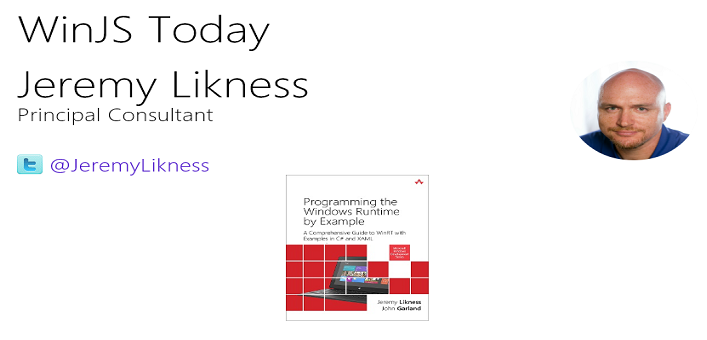
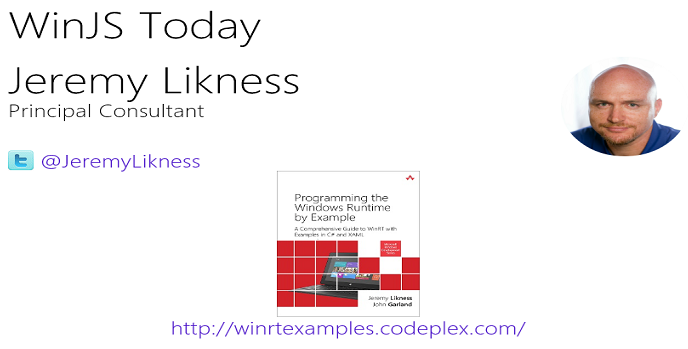
Fix links and refresh thumbnails

diff --git a/RebuildWinJS/slides/slide1.html b/RebuildWinJS/slides/slide1.html
@@ -5,6 +5,6 @@
     <p class="spacer-10"/>
     <div class="animated bounceInRight"><a class="win-type-x-large" href="http://www.twitter.com/jeremylikness" target="_blank"><img src="/images/twitter.png" class="v-middle" alt="Twitter" />&nbsp;<span class="v-middle">@JeremyLikness</span></a></div>
     <img id="bookImg" src="/images/9780321927972-qtrsize.jpg" class="hidden"/>
-    <div id="bookLink" class="stretch-horizontal hidden"><a class="block-center win-type-x-large" href="http://bit.ly/winrtexample" target="_blank">http://bit.ly/winrtexample</a></div>
+    <div id="bookLink" class="stretch-horizontal hidden"><a class="block-center win-type-x-large" href="http://winrtexamples.codeplex.com/" target="_blank">http://winrtexamples.codeplex.com/</a></div>
 </div>
 <script src="/js/slide1.js"></script>

diff --git a/RebuildWinJS/slides/slide3.html b/RebuildWinJS/slides/slide3.html
@@ -5,7 +5,8 @@
         <li id="s3two" class="win-type-x-large hidden">What's New</li>
         <li id="s3three" class="win-type-x-large hidden">Overview of Features</li>
         <li id="s3four" class="win-type-x-large hidden">WinJS and XBox</li>
-        <li id="s3five" class="win-type-x-large hidden">Demo: WinJS in Action</li>
+        <li id="s3five" class="win-type-x-large hidden">The future of WinJS</li>
+        <li id="s3six" class="win-type-x-large hidden"><strong>This</strong> is the demo!</li>
     </ul>
     <div class="bar spacer-10 animated wobble"></div>
 </div>

diff --git a/RebuildWinJS/js/slide3.js b/RebuildWinJS/js/slide3.js
@@ -2,6 +2,6 @@
 
     'use strict';
 
-    bm.register('slide3.html', ['s3one', 's3two', 's3three', 's3four', 's3five']);
+    bm.register('slide3.html', ['s3one', 's3two', 's3three', 's3four', 's3five', 's3six']);
     
 })(bulletManager);
